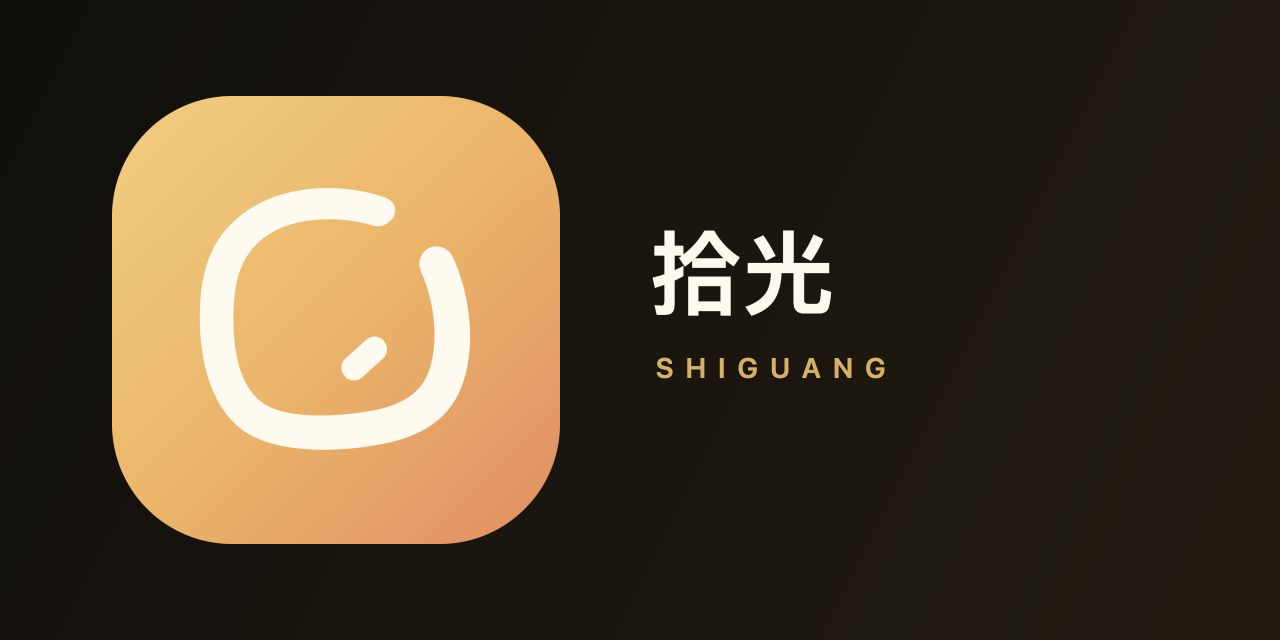
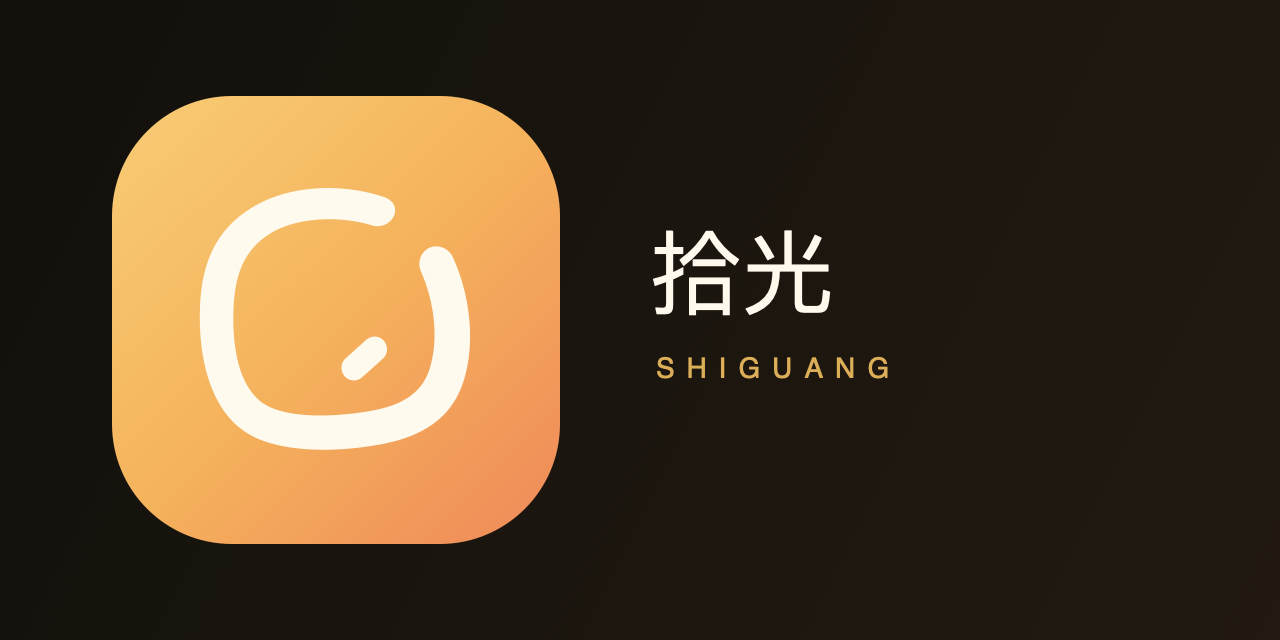
更新 v0.1.17 四语言发布资料
同步 Apple Silicon 免费内测版 README 与品牌资源，不包含应用源代码。

Changed region(s): [[0.5, 0.375, 0.6562, 0.5], [0.5, 0.5625, 0.7188, 0.5938], [0.125, 0.8125, 0.1562, 0.8438]]

diff --git a/README.en.md b/README.en.md
@@ -10,23 +10,23 @@
 
 ## Download
 
-### v0.1.16 · Apple Silicon Mac
+### v0.1.17 · Apple Silicon Mac
 
 The current public beta is available only for an Apple Silicon Mac with an Apple M-series chip. Intel Mac and Windows builds are not yet available for public download.
 
-- [Download Shiguang v0.1.16 DMG](https://github.com/Sorasukiawa/shiguang/releases/tag/v0.1.16)
+- [Download Shiguang v0.1.17 DMG](https://github.com/Sorasukiawa/shiguang/releases/tag/v0.1.17)
 - [View all releases](https://github.com/Sorasukiawa/shiguang/releases)
 
 If you are unsure which chip your Mac uses, open ** → About This Mac** and check the Chip field.
 
-## What changed in v0.1.16
+## What changed in v0.1.17
 
-- New projects can use either a simpler folder layout or separate card folders such as R01 and R02.
-- Built-in video, photo, and mixed-project presets now include a dedicated `LOGO` asset folder.
-- The offload screen prepares a copy only after you explicitly select a project; it no longer selects the first project automatically.
-- The in-app project recycle area now has a shorter name while remaining distinct from the macOS system Trash.
-- Storage-layout switching has clearer feedback and continues to respect macOS Reduce Motion.
-- Existing projects retain their original folder rules. If project-structure metadata is missing or invalid, Shiguang stops before copying instead of guessing a destination.
+- Shiguang now uses the new warm-gold “captured light” mark across the app, DMG, and public download page.
+- Full-verification issues now appear in the human-readable report, so a failed job cannot still look successful there.
+- Stricter source-card safeguards recheck that media still belongs to the selected card before opening or retrying it, preventing accidental reads outside the card.
+- When many cards from one camera position exhaust the numbered folders, the next card uses a separate safe folder instead of being mixed into an existing one.
+- The offload screen now clearly asks for a project when none is selected, without showing a false first selection or “Scanning”.
+- Project-archive progress updates more promptly and resynchronizes when the page returns, reducing delay and background queries during long archives.
 
 ## What Shiguang does
 
@@ -50,7 +50,7 @@ Here, xxHash64 detects whether copied content is identical; it is not authentica
 
 ## First launch on macOS
 
-The v0.1.16 beta is not signed with an Apple Developer ID and is not notarized by Apple. macOS may therefore block its first launch:
+The v0.1.17 beta is not signed with an Apple Developer ID and is not notarized by Apple. macOS may therefore block its first launch:
 
 1. Download the DMG only from the [Sorasukiawa/shiguang](https://github.com/Sorasukiawa/shiguang) Releases page.
 2. Open the DMG and drag Shiguang into **Applications**.
